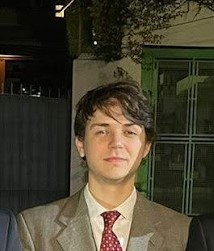
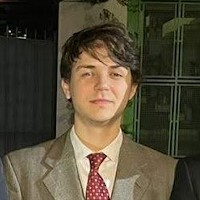
foto quadrada

diff --git a/index.html b/index.html
@@ -3,7 +3,7 @@
 <html>
 
 	<head>
-		<title>Seu Nome - Portfolio Online</title>
+		<title>Pedro B B Fonseca - Portfolio Online</title>
 
 		<meta charset="utf-8">
 		<link rel="stylesheet" href="css/styles.css">
@@ -23,10 +23,10 @@
 			</div>
 
 			<div>
-				<img src="img/ivan-profile.jpg" alt="Foto de Ivan Gomes">
+				<img src="img/curriculo.jpg" alt="Foto de Pedro Fonseca">
 
-				<h1>Seu Nome Aqui</h1>
-				<h2>O que você faz - O que você faz - O que você faz</h2>
+				<h1>Pedro Bortolini Barcellos Fonseca</h1>
+				<h2>Desenvolvedor frontend - Desenvolvedor backend </h2>
 			</div>
 
 
